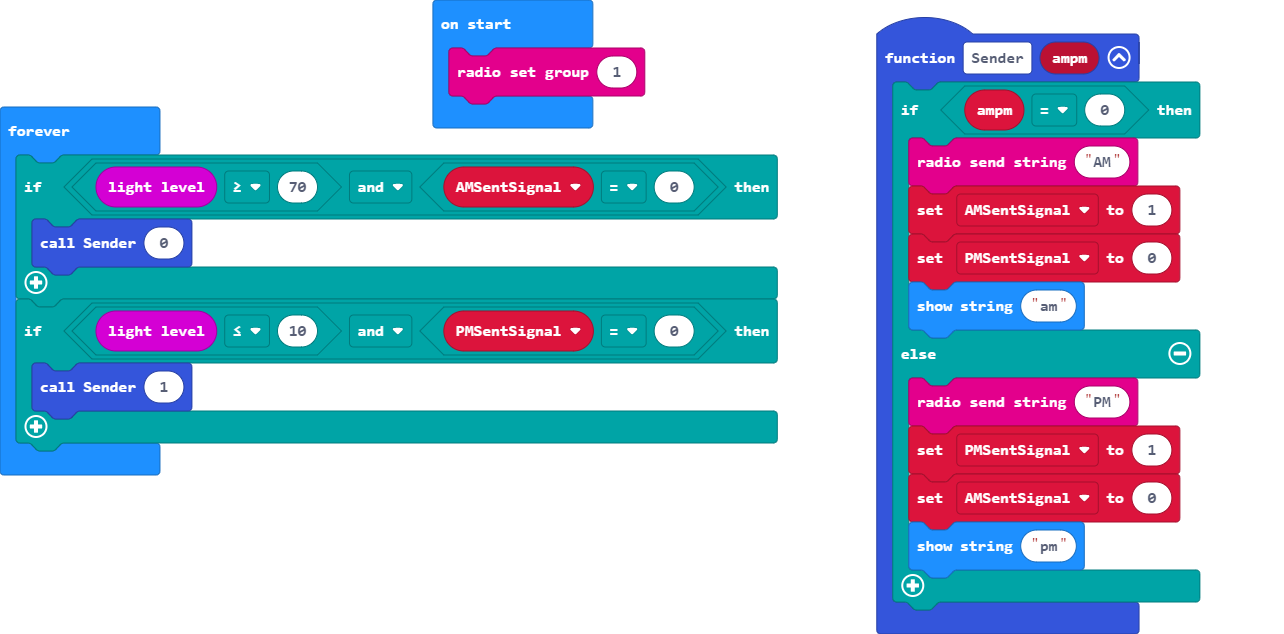
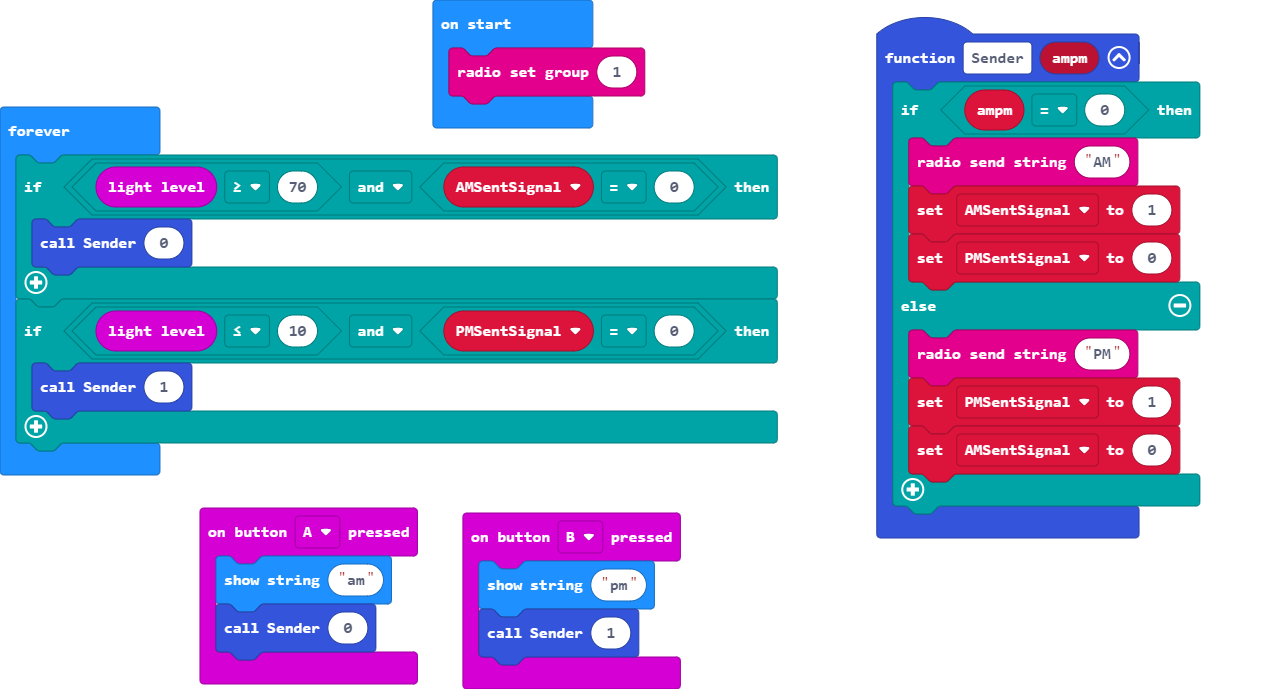
Update main.blocks, main.ts

diff --git a/main.ts b/main.ts
@@ -1,14 +1,20 @@
+input.onButtonPressed(Button.A, function () {
+    basic.showString("am")
+    Sender(0)
+})
+input.onButtonPressed(Button.B, function () {
+    basic.showString("pm")
+    Sender(1)
+})
 function Sender (ampm: number) {
     if (ampm == 0) {
         radio.sendString("AM")
         AMSentSignal = 1
         PMSentSignal = 0
-        basic.showString("am")
     } else {
         radio.sendString("PM")
         PMSentSignal = 1
         AMSentSignal = 0
-        basic.showString("pm")
     }
 }
 let PMSentSignal = 0
